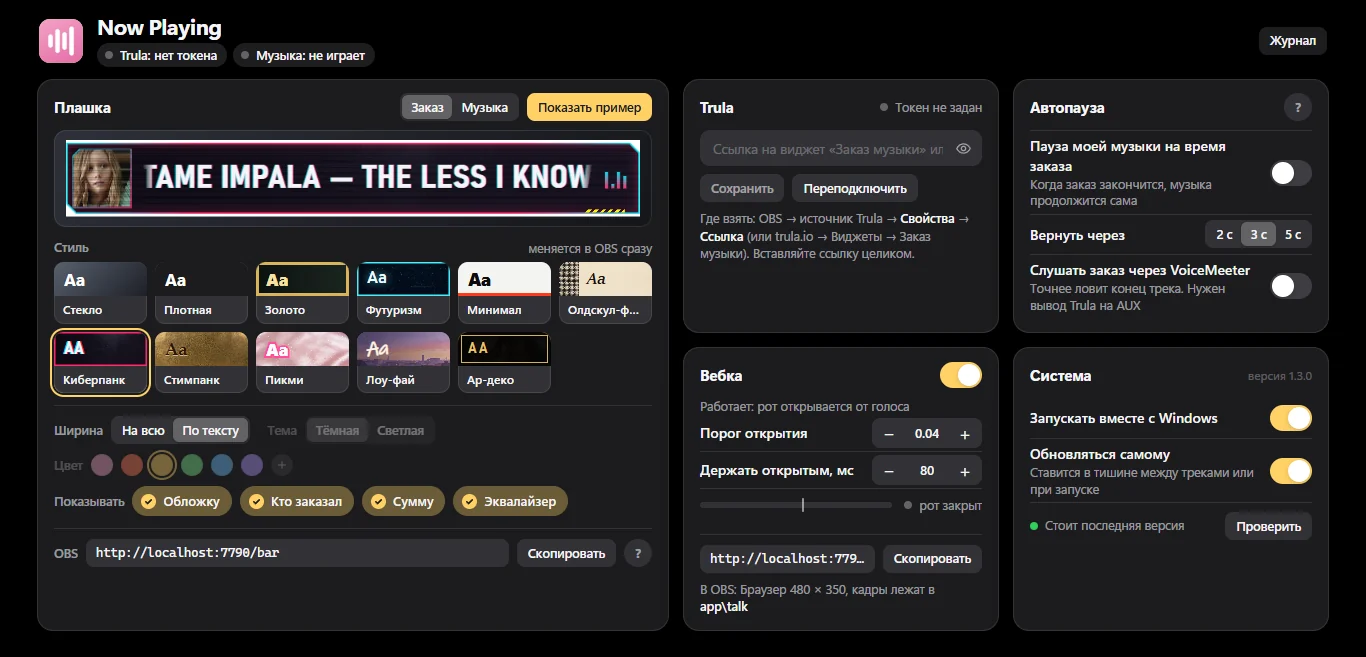
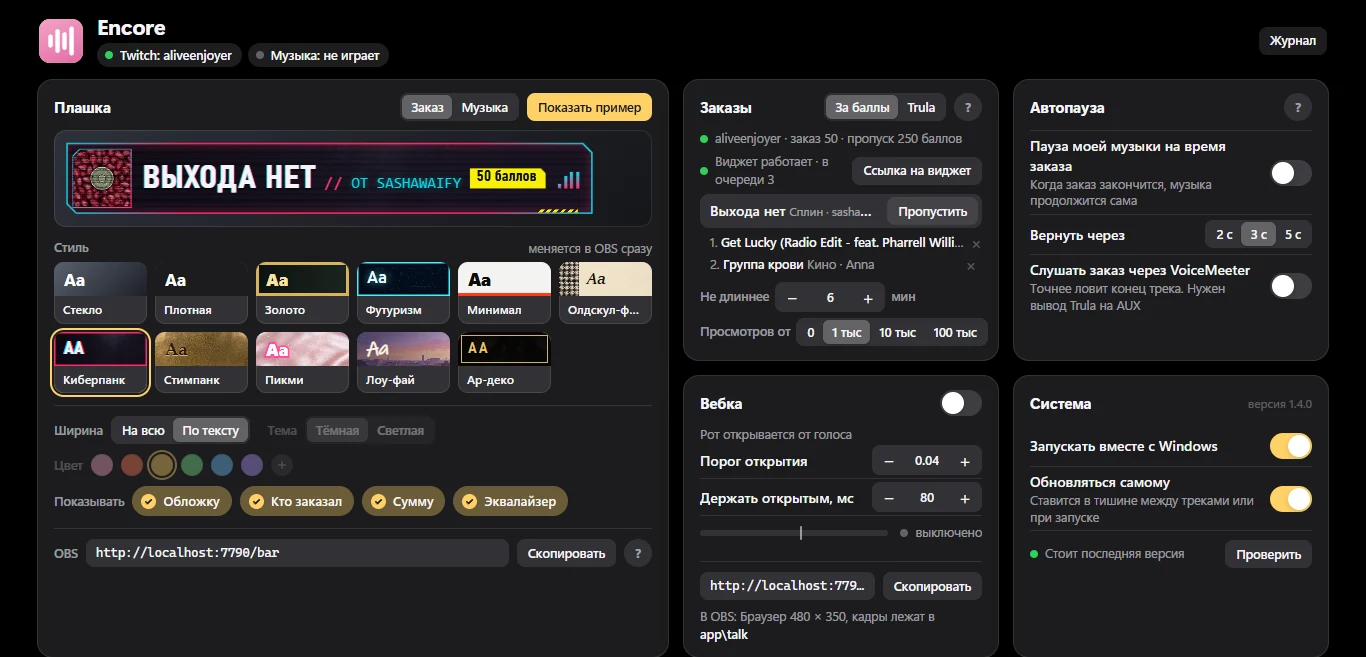
Encore 1.4.0 на сайте и в README: заказы за баллы, Encore.zip
Блок «Скоро» стал «Новое»: две награды (50 и 250 баллов), лимиты, возврат
баллов, плашка с заказом за баллы. Установка: Encore.exe, вход в Twitch по
коду, источник /player со звуком через OBS. Свежий снимок настроек 1.4.0,
карточка для ссылок, ссылки на aliveenjoyer/encore.

diff --git a/docs/index.html b/docs/index.html
@@ -3,11 +3,11 @@
 <head>
 <meta charset="utf-8">
 <meta name="viewport" content="width=device-width, initial-scale=1">
-<title>Encore: плашка «что играет» для OBS и автопауза под заказы</title>
-<meta name="description" content="Encore показывает на стриме, что играет, в одном из 11 стилей и ставит твою музыку на паузу, пока звучит заказ зрителя. Бесплатно, Windows 10 и 11, меньше 1 МБ.">
+<title>Encore: заказ треков за баллы и плашка «что играет» для OBS</title>
+<meta name="description" content="Encore принимает заказы треков за баллы канала Twitch, показывает на стриме, что играет, в одном из 11 стилей и ставит твою музыку на паузу, пока звучит заказ. Бесплатно, Windows 10 и 11, меньше 1 МБ.">
 <meta name="theme-color" content="#000000">
 <meta property="og:title" content="Encore: музыка сама знает, когда помолчать">
-<meta property="og:description" content="Плашка «что играет» для OBS в 11 стилях и автопауза под заказы зрителей. Бесплатно.">
+<meta property="og:description" content="Заказ треков за баллы канала, плашка «что играет» для OBS в 11 стилях и автопауза. Бесплатно.">
 <meta property="og:type" content="website">
 <meta property="og:url" content="https://encore.aliveenjoyer.art/">
 <meta property="og:image" content="https://encore.aliveenjoyer.art/assets/og.jpg">
@@ -157,17 +157,27 @@ section { scroll-margin-top: 72px; }
 
 /* orders */
 .split { margin-top: 32px; display: grid; grid-template-columns: minmax(0, 1.2fr) minmax(0, 1fr); gap: 20px; }
-.flow { padding: clamp(24px, 3.5vw, 40px); }
+.flow { padding: clamp(24px, 3.5vw, 40px); display: flex; flex-direction: column; }
+.onbar { margin: auto 0 0; padding-top: 32px; }
+.onbar img { width: 100%; max-width: 480px; filter: drop-shadow(0 12px 30px rgba(0, 0, 0, .6)); }
+.onbar figcaption { margin-top: 12px; font-size: 13px; color: var(--gray); }
 .steps { list-style: none; margin: 0; padding: 0; display: grid; gap: 18px; counter-reset: s; }
 .steps li { display: grid; grid-template-columns: 40px 1fr; gap: 14px; align-items: start; }
 .steps li::before { counter-increment: s; content: counter(s); width: 40px; height: 40px; border-radius: 50%; display: grid; place-items: center;
   font-weight: 600; color: var(--pink); background: rgba(255, 126, 182, .1); border: 1px solid rgba(255, 126, 182, .3); }
 .steps b { display: block; font-weight: 600; font-size: 17px; letter-spacing: -.01em; }
 .steps span { display: block; margin-top: 2px; color: var(--gray-2); font-size: 15px; line-height: 1.45; }
-.soon { padding: clamp(24px, 3.5vw, 40px); --c: #a78bfa; }
+.points { padding: clamp(24px, 3.5vw, 40px); --c: #a78bfa; }
 .badge { display: inline-block; font-size: 12px; font-weight: 600; letter-spacing: .02em; color: #120a24; background: #a78bfa; padding: 3px 10px; border-radius: 999px; }
-.soon h3 { margin: 14px 0 0; font-weight: 600; font-size: 24px; letter-spacing: -.02em; line-height: 1.15; }
-.soon p { margin: 10px 0 0; color: var(--gray-2); font-size: 15px; line-height: 1.5; }
+.points h3 { margin: 14px 0 0; font-weight: 600; font-size: 24px; letter-spacing: -.02em; line-height: 1.15; }
+.points p { margin: 10px 0 0; color: var(--gray-2); font-size: 15px; line-height: 1.5; }
+/* the two rewards Encore puts on the channel */
+.rewards { display: grid; gap: 8px; margin-top: 18px; }
+.rw { display: flex; align-items: center; gap: 12px; padding: 10px 12px 10px 10px; border-radius: 14px; background: rgba(167, 139, 250, .07); border: 1px solid rgba(167, 139, 250, .22); }
+.rw i { flex: none; width: 34px; height: 34px; border-radius: 10px; display: grid; place-items: center; background: rgba(167, 139, 250, .16); color: #c4b5fd; }
+.rw i svg { width: 18px; height: 18px; }
+.rw span { flex: 1; min-width: 0; font-weight: 500; font-size: 15px; }
+.rw b { flex: none; font-weight: 600; font-size: 14px; color: #c4b5fd; font-variant-numeric: tabular-nums; }
 .facts { list-style: none; margin: 16px 0 0; padding: 0; display: grid; gap: 9px; color: var(--gray-2); font-size: 15px; line-height: 1.45; }
 .facts li { display: grid; grid-template-columns: 18px 1fr; }
 .facts li::before { content: ""; width: 6px; height: 6px; margin-top: 8px; border-radius: 50%; background: var(--c); box-shadow: 0 0 10px var(--c); }
@@ -217,21 +227,21 @@ section { scroll-margin-top: 72px; }
       <a href="#install">Как поставить</a>
       <a href="https://aliveenjoyer.art/">Все проекты</a>
     </nav>
-    <a class="btn solid" href="https://github.com/aliveenjoyer/now-playing/releases/latest/download/NowPlaying.zip">Скачать</a>
+    <a class="btn solid" href="https://github.com/aliveenjoyer/encore/releases/latest/download/Encore.zip">Скачать</a>
   </div>
 </header>
 
 <main class="wrap">
   <section class="hero" aria-labelledby="h1">
     <div>
-      <p class="eyebrow">Плашка для OBS и автопауза под заказы</p>
+      <p class="eyebrow">Заказы за баллы, плашка для OBS и автопауза</p>
       <h1 id="h1">Музыка сама знает, когда помолчать.</h1>
-      <p class="sub">Показывает на стриме, что сейчас играет, и ставит твою музыку на паузу, пока звучит заказ зрителя. Поставил один раз и забыл.</p>
+      <p class="sub">Зрители заказывают треки за баллы канала, плашка показывает, что играет, а твоя музыка встаёт на паузу, пока звучит заказ. Поставил один раз и забыл.</p>
       <div class="cta">
-        <a class="btn solid" href="https://github.com/aliveenjoyer/now-playing/releases/latest/download/NowPlaying.zip"><svg viewBox="0 0 24 24" fill="none" stroke="currentColor" stroke-width="2" aria-hidden="true"><path d="M12 4v11m0 0-4.5-4.5M12 15l4.5-4.5M5 20h14"/></svg>Скачать бесплатно</a>
-        <a class="btn" href="#styles">Посмотреть стили</a>
+        <a class="btn solid" href="https://github.com/aliveenjoyer/encore/releases/latest/download/Encore.zip"><svg viewBox="0 0 24 24" fill="none" stroke="currentColor" stroke-width="2" aria-hidden="true"><path d="M12 4v11m0 0-4.5-4.5M12 15l4.5-4.5M5 20h14"/></svg>Скачать бесплатно</a>
+        <a class="btn" href="#orders">Как работают заказы</a>
       </div>
-      <ul class="chips"><li>Бесплатно</li><li>Windows 10 и 11</li><li>Меньше 1 МБ</li><li>Версия <span data-release="aliveenjoyer/now-playing">1.3.0</span></li></ul>
+      <ul class="chips"><li>Бесплатно</li><li>Windows 10 и 11</li><li>Меньше 1 МБ</li><li>Версия <span data-release="aliveenjoyer/encore">1.4.0</span></li></ul>
     </div>
     <div class="art" aria-hidden="true">
       <img class="vinyl" src="assets/vinyl.webp" width="1000" height="1000" alt="">
@@ -255,24 +265,33 @@ section { scroll-margin-top: 72px; }
   <section class="block" id="orders" aria-labelledby="h-orders">
     <div class="head">
       <h2 id="h-orders">Зритель заказал трек. Твоя музыка подождёт.</h2>
-      <p>Никаких двух песен поверх друг друга и ручных пауз посреди катки.</p>
+      <p>Заказы за баллы канала прямо в Encore или через Trula. Никаких двух песен поверх друг друга и ручных пауз посреди катки.</p>
     </div>
     <div class="split">
       <div class="tile flow">
         <ol class="steps">
-          <li><div><b>Заказ пришёл</b><span>Зритель заказал трек в Trula. Твой YouTube Music, Spotify или любой плеер Windows встаёт на паузу сам.</span></div></li>
-          <li><div><b>Заказ на плашке</b><span>Название, кто заказал и сколько закинул. В том же стиле, что и твоя музыка.</span></div></li>
+          <li><div><b>Заказ пришёл</b><span>Зритель заказал трек за баллы канала или в Trula. Твой YouTube Music, Spotify или любой плеер Windows встаёт на паузу сам.</span></div></li>
+          <li><div><b>Заказ на плашке</b><span>Название, кто заказал и сколько отдал: баллы или рубли. В том же стиле, что и твоя музыка.</span></div></li>
           <li><div><b>Музыка вернулась</b><span>Трек доиграл, и твоя музыка продолжается с того же места. Через 2, 3 или 5 секунд, как скажешь.</span></div></li>
         </ol>
+        <figure class="onbar">
+          <img src="assets/bars/points-future.webp" width="1080" height="140" alt="Плашка в стиле «Футуризм»: «Выхода нет» от sashawaify, 50 баллов" loading="lazy">
+          <figcaption>Заказ за баллы на плашке, стиль «Футуризм»</figcaption>
+        </figure>
       </div>
-      <div class="tile soon">
-        <span class="badge">Скоро</span>
+      <div class="tile points">
+        <span class="badge">Новое</span>
         <h3>Заказ треков за баллы канала</h3>
-        <p>Без Trula и без донатов. Encore сама заводит на Twitch награду «Заказать трек»: зритель пишет название или кидает ссылку, трек играет прямо из Encore.</p>
+        <p>Без Trula и без донатов. Подключаешь Twitch, и Encore сама заводит на канале две награды. Треки играют прямо из Encore, через источник в OBS.</p>
+        <div class="rewards" aria-label="Награды на канале">
+          <div class="rw"><i><svg viewBox="0 0 24 24" fill="none" stroke="currentColor" stroke-width="2" stroke-linecap="round" stroke-linejoin="round" aria-hidden="true"><path d="M9 18V5l11-2v13"/><circle cx="6" cy="18" r="3"/><circle cx="17" cy="16" r="3"/></svg></i><span>Заказать трек</span><b>50 баллов</b></div>
+          <div class="rw"><i><svg viewBox="0 0 24 24" fill="none" stroke="currentColor" stroke-width="2" stroke-linecap="round" stroke-linejoin="round" aria-hidden="true"><path d="M5 5l9 7-9 7z"/><path d="M19 5v14"/></svg></i><span>Пропустить трек</span><b>250 баллов</b></div>
+        </div>
         <ul class="facts">
-          <li>YouTube, YouTube Music, Spotify, SoundCloud или просто название</li>
-          <li>Ты задаёшь лимиты: длина трека, минимум просмотров, треков от одного зрителя</li>
-          <li>Не подошёл трек, и баллы вернутся сами</li>
+          <li>Зритель пишет название или кидает ссылку: YouTube, YouTube Music, Spotify, SoundCloud</li>
+          <li>Лимиты твои: длина трека, просмотры, сколько треков от одного зрителя, длина очереди и чёрный список слов</li>
+          <li>Баллы спишутся, когда трек заиграет. Не подошёл, убран из очереди или не сыграл, и баллы вернутся сами</li>
+          <li>Названия и цены наград меняешь в настройках</li>
         </ul>
       </div>
     </div>
@@ -281,12 +300,12 @@ section { scroll-margin-top: 72px; }
   <section class="block" id="settings" aria-labelledby="h-settings">
     <div class="head">
       <h2 id="h-settings">Все настройки на одном экране.</h2>
-      <p>Стиль, Trula, автопауза, говорящая вебка и обновления. Ничего не надо искать по вкладкам.</p>
+      <p>Стиль, заказы и очередь, автопауза, говорящая вебка и обновления. Ничего не надо искать по вкладкам.</p>
     </div>
-    <div class="tile shot"><img src="assets/settings.webp" width="1366" height="657" alt="Окно настроек Encore: предпросмотр плашки, стили, Trula, автопауза, вебка и система" loading="lazy"></div>
+    <div class="tile shot"><img src="assets/settings.webp" width="1366" height="657" alt="Окно настроек Encore: предпросмотр плашки с заказом за баллы, стили, заказы с очередью, автопауза, вебка и система" loading="lazy"></div>
     <ul class="trio">
       <li><b>Обновляется сама</b><span>Новая версия ставится в тишине между треками. Плашка в OBS перезагружается сама.</span></li>
-      <li><b>Всё на твоём компьютере</b><span>Работает на localhost. Токен Trula хранится только у тебя.</span></li>
+      <li><b>Всё на твоём компьютере</b><span>Работает на localhost. Вход в Twitch и токен Trula хранятся только у тебя.</span></li>
       <li><b>Бонус: говорящая вебка</b><span>Две картинки, и твой аватар открывает рот, когда ты говоришь.</span></li>
     </ul>
   </section>
@@ -297,15 +316,15 @@ section { scroll-margin-top: 72px; }
     </div>
     <div class="tile install">
       <ol class="steps">
-        <li><div><b>Скачай и запусти</b><span>Распакуй папку из архива целиком и запусти программу. Если Windows ругается, «Подробнее» → «Выполнить в любом случае».</span></div></li>
-        <li><div><b>Вставь ссылку Trula и выбери стиль</b><span>Настройки откроются сами. Ссылку на виджет «Заказ музыки» берёшь из OBS.</span></div></li>
-        <li><div><b>Добавь плашку в OBS</b><span>Источник «Браузер», ширина 720, высота 96:</span>
-          <span class="url"><code id="obsUrl">http://localhost:7790/bar</code><button class="copy" type="button" data-copy="obsUrl">Скопировать</button></span></div></li>
+        <li><div><b>Скачай и запусти</b><span>Распакуй папку Encore из архива целиком и запусти Encore.exe. Если Windows ругается, «Подробнее» → «Выполнить в любом случае».</span></div></li>
+        <li><div><b>Подключи Twitch и выбери стиль</b><span>Настройки откроются сами. В карточке «Заказы» нажми «Подключить» и введи код на twitch.tv/activate. Заказы идут через Trula? Вставь ссылку на её виджет во вкладке «Trula».</span></div></li>
+        <li><div><b>Добавь Encore в OBS</b><span>Источник «Браузер», ширина 720, высота 96, галочка «Управление аудио через OBS». В нём и плашка, и звук заказов:</span>
+          <span class="url"><code id="obsUrl">http://localhost:7790/player</code><button class="copy" type="button" data-copy="obsUrl">Скопировать</button></span></div></li>
       </ol>
       <div class="getit">
         <img src="assets/vinyl.webp" width="1000" height="1000" alt="" loading="lazy">
-        <a class="btn solid" href="https://github.com/aliveenjoyer/now-playing/releases/latest/download/NowPlaying.zip"><svg viewBox="0 0 24 24" fill="none" stroke="currentColor" stroke-width="2" aria-hidden="true"><path d="M12 4v11m0 0-4.5-4.5M12 15l4.5-4.5M5 20h14"/></svg>Скачать бесплатно</a>
-        <small>Версия <span data-release="aliveenjoyer/now-playing">1.3.0</span> · <a href="https://github.com/aliveenjoyer/now-playing/releases">что нового</a></small>
+        <a class="btn solid" href="https://github.com/aliveenjoyer/encore/releases/latest/download/Encore.zip"><svg viewBox="0 0 24 24" fill="none" stroke="currentColor" stroke-width="2" aria-hidden="true"><path d="M12 4v11m0 0-4.5-4.5M12 15l4.5-4.5M5 20h14"/></svg>Скачать бесплатно</a>
+        <small>Версия <span data-release="aliveenjoyer/encore">1.4.0</span> · <a href="https://github.com/aliveenjoyer/encore/releases">что нового</a></small>
       </div>
     </div>
   </section>
@@ -313,15 +332,15 @@ section { scroll-margin-top: 72px; }
 
 <footer class="wrap foot">
   <div class="foot-in">
-    <div><b>aliveenjoyer</b><p>Делаю программы для стрима: чат в игре, кнопки для зрителей, колесо хаоса и вот эту плашку.</p></div>
+    <div><b>aliveenjoyer</b><p>Делаю программы для стрима: чат в игре, кнопки для зрителей, колесо хаоса и Encore.</p></div>
     <div class="cta">
       <a class="btn" href="https://aliveenjoyer.art/">Все проекты</a>
       <a class="btn" href="https://www.donationalerts.com/r/aliveenjoyer">Поддержать</a>
     </div>
   </div>
   <div class="fine">
-    <span>Encore бесплатна, раньше называлась Now Playing. Trula, YouTube, Spotify, SoundCloud и OBS принадлежат своим владельцам, программа с ними не связана.</span>
-    <a href="https://github.com/aliveenjoyer/now-playing">GitHub</a>
+    <span>Encore бесплатна, раньше называлась Now Playing. Twitch, Trula, YouTube, Spotify, SoundCloud и OBS принадлежат своим владельцам, программа с ними не связана.</span>
+    <a href="https://github.com/aliveenjoyer/encore">GitHub</a>
   </div>
 </footer>
 

diff --git a/README.md b/README.md
@@ -1,15 +1,22 @@
-# Now Playing
+# Encore
 
-Плашка «что сейчас играет» для OBS и автопауза под заказы Trula. Windows 10 и 11, архив меньше 1 МБ, бесплатно.
+Заказ треков за баллы канала Twitch, плашка «что сейчас играет» для OBS и автопауза под заказы. Раньше называлась
+Now Playing. Windows 10 и 11, архив меньше 1 МБ, бесплатно.
 
-**[⬇ Скачать NowPlaying.zip](https://github.com/aliveenjoyer/now-playing/releases/latest/download/NowPlaying.zip)** · [Сайт](https://encore.aliveenjoyer.art) · [Что нового](https://github.com/aliveenjoyer/now-playing/releases) · [Другие проекты](https://aliveenjoyer.art)
+**[⬇ Скачать Encore.zip](https://github.com/aliveenjoyer/encore/releases/latest/download/Encore.zip)** · [Сайт](https://encore.aliveenjoyer.art) · [Что нового](https://github.com/aliveenjoyer/encore/releases) · [Другие проекты](https://aliveenjoyer.art)
 
 ![Все стили плашки с одной песней поверх кадра Deadlock, в том же месте и масштабе, что в OBS](docs/styles.jpg)
 
 ## Что умеет
 
+- Заказ треков за баллы канала, без Trula и без донатов. Encore сама заводит на Twitch две награды: «Заказать трек»
+  (50 баллов) и «Пропустить трек» (250). Зритель пишет название или кидает ссылку YouTube, YouTube Music, Spotify или
+  SoundCloud, трек играет прямо из Encore через источник в OBS. Названия и цены наград меняются в настройках.
+- Лимиты заказов: длина трека, просмотры, сколько треков от одного зрителя, длина очереди, чёрный список слов.
+  Баллы спишутся, когда трек заиграет. Не подошёл, убран из очереди или не сыграл, и баллы вернутся сами.
 - Показывает трек из YouTube Music, Spotify или любого плеера Windows: название, исполнитель, обложка.
-- Зритель заказал трек в Trula: твоя музыка встаёт на паузу и потом играет дальше сама. На плашке заказ, ник и сумма.
+- Играет заказ (за баллы или из Trula): твоя музыка встаёт на паузу и потом играет дальше сама. На плашке заказ, ник
+  и сколько зритель отдал.
 - 11 стилей плашки: стекло, плотная, золото, футуризм, минимал, олдскул-фэшн, киберпанк, стимпанк, пикми, лоу-фай,
   ар-деко. Стиль меняется в настройках, OBS подхватывает за секунду.
 - Обновляется сама: новая версия скачивается отсюда и ставится в тишине между треками или при запуске.
@@ -17,12 +24,18 @@
 
 ## Как поставить
 
-1. Скачай [NowPlaying.zip](https://github.com/aliveenjoyer/now-playing/releases/latest/download/NowPlaying.zip),
-   распакуй папку «Now Playing» целиком и запусти `Now Playing.exe`. Иконка появится в трее.
+1. Скачай [Encore.zip](https://github.com/aliveenjoyer/encore/releases/latest/download/Encore.zip), распакуй папку
+   «Encore» целиком и запусти `Encore.exe`. Иконка появится в трее.
 2. Если Windows пишет «Система Windows защитила ваш компьютер», нажми «Подробнее» → «Выполнить в любом случае».
    Программа без цифровой подписи, ставить ничего не нужно.
-3. Откроются настройки (`http://localhost:7790/`). Вставь ссылку на виджет Trula «Заказ музыки» и выбери стиль.
-4. В OBS: Источники → **+** → **Браузер**, ссылка `http://localhost:7790/bar`, ширина 720, высота 96.
+3. Откроются настройки (`http://localhost:7790/`). В карточке «Заказы» нажми «Подключить» и введи код на
+   twitch.tv/activate. Заказы идут через Trula? Вставь ссылку на её виджет «Заказ музыки» во вкладке «Trula».
+   Выбери стиль плашки.
+4. В OBS: Источники → **+** → **Браузер**, ссылка `http://localhost:7790/player`, ширина 720, высота 96, галочка
+   «Управление аудио через OBS». В этом источнике и плашка, и звук заказов. Нужна только плашка: `http://localhost:7790/bar`.
+
+Стоит Now Playing 1.3? Она обновится сама и станет Encore, ярлыки и автозапуск переедут. Для заказов за баллы
+останется подключить Twitch и поменять в OBS адрес `/bar` на `/player`.
 
 ![Настройки: всё на одном экране](docs/settings.png)
 
@@ -31,12 +44,14 @@
 Раз в 6 часов программа смотрит сюда, в релизы. Нашлась новая версия: скачивает её, сверяет контрольную сумму и ставит,
 когда пару минут ничего не играет (на стриме это незаметно: плашка в этот момент скрыта), или при следующем запуске.
 Плашка в OBS после обновления перезагружается сама. Выключить: настройки → «Система» → «Обновляться самому».
-Твои настройки, токен Trula и кадры вебки обновление не трогает.
+Твои настройки, вход в Twitch, очередь заказов, токен Trula и кадры вебки обновление не трогает.
 
 ## Что внутри
 
 Один exe и папка `app`: движок на встроенном в Windows PowerShell, страница настроек и плашка. Без установщика, без
-Node и Python, без прав администратора. Всё работает только на твоём компьютере (`localhost`); токен Trula хранится
-у тебя в `app\config.json`. Картинки стилей нарисованы для этой программы, шрифты системные с кириллицей.
+Node и Python, без прав администратора. Всё работает только на твоём компьютере (`localhost`). Twitch: вход по коду
+на twitch.tv/activate, Encore просит только права на награды за баллы (`channel:read:redemptions`,
+`channel:manage:redemptions`), вход хранится в `app\twitch.json`, зашифрованный средствами Windows. Токен Trula
+лежит у тебя в `app\config.json`. Картинки стилей нарисованы для этой программы, шрифты системные с кириллицей.
 
 Сделал [aliveenjoyer](https://github.com/aliveenjoyer). Поддержать: [DonationAlerts](https://www.donationalerts.com/r/aliveenjoyer).
